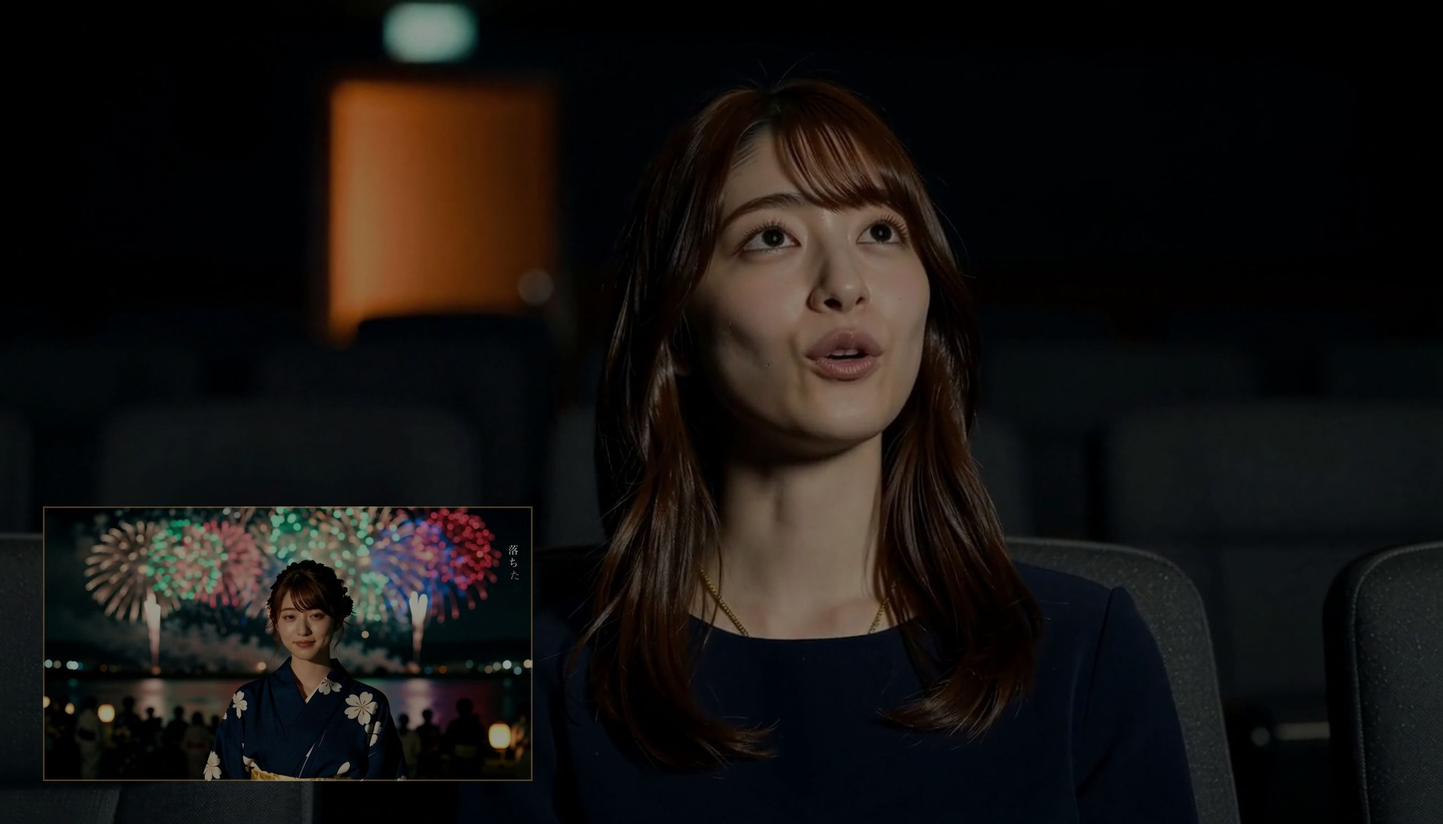
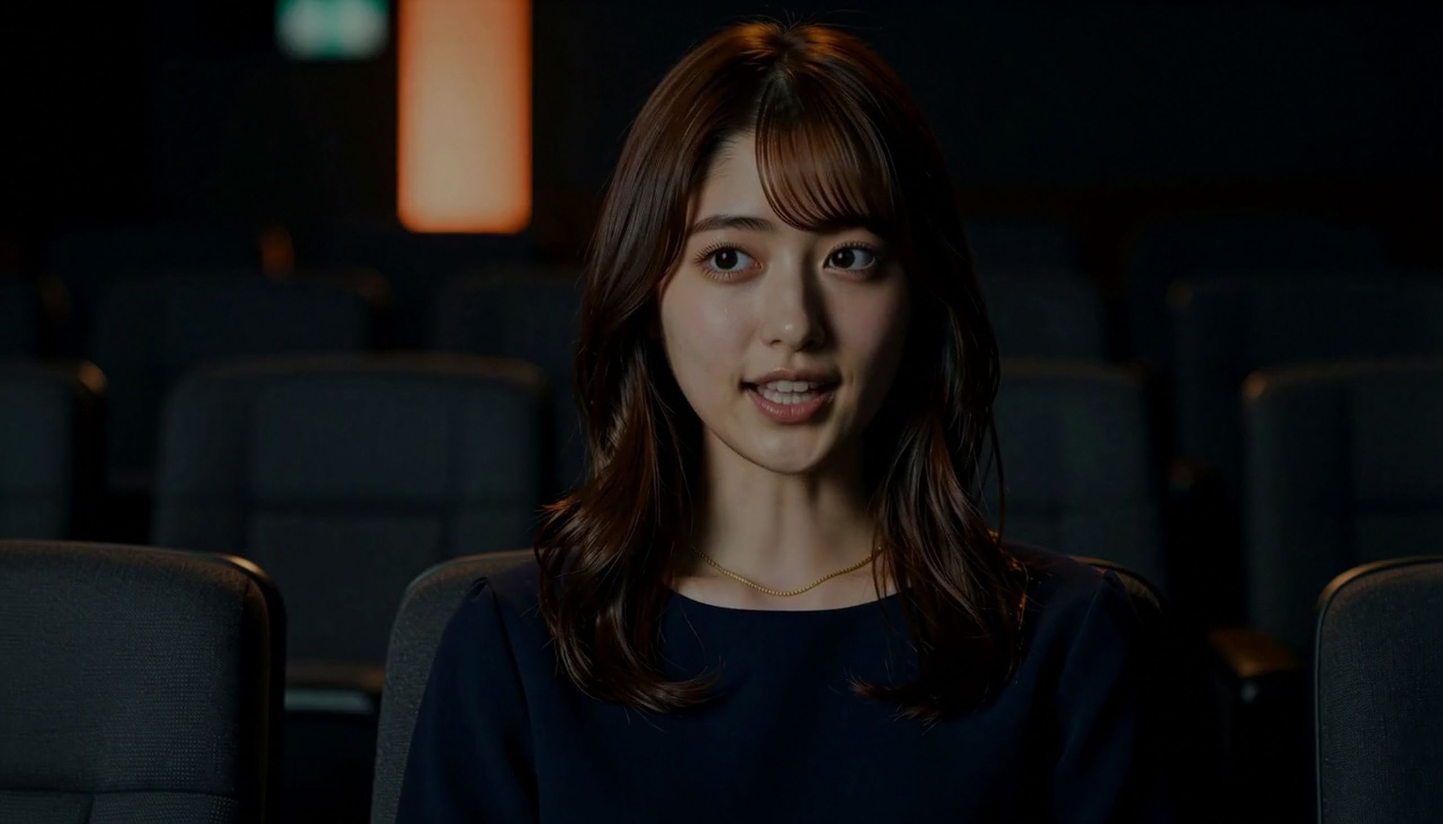
showcase: テンプレ36枚メガウォール / 衣装47点3列レール / プロ精度カード実画像化 / PRO表記削除
- 世界観のライブラリ = 3列×36枚(lib12+新規24, 全数目視済)
- スタイリング = 2026トレンド/ジャンル/レース和装/四季/ウケ/水着/コス 47点・4,000点超コピー
- 13の抽象図版→実画像(絵コンテstrip/線香花火ボケ/躍動カット)、PRO・PC版バッジと注記を削除
- スタジオのフレームを差し替え

diff --git a/js/main.js b/js/main.js
@@ -181,7 +181,7 @@ document.querySelectorAll('.reveal').forEach(el=>io.observe(el));
 (function i18n(){
   const M={
 "声で、映像をつくる":"用聲音，創造影像","話すだけで、":"只要開口說，","MVができる。":"MV就誕生。","頭の中にある一本の映像を、声で相談しながら——":"腦海中的那一支影像，用聲音邊聊邊打造——","雰囲気から完成まで、ともに描くAIディレクター。":"從氛圍到完成，陪你一同描繪的AI導演。","ネイティブ発音":"母語級發音","好きな声を選べる":"自選喜歡的聲音","声で、はじめる":"用聲音，開始","世界観を見る":"探索世界觀","01 — はじまりの問い":"01 — 起點的提問","頭の中で再生される、":"在腦海裡一再播放的，","あの":"那","一本":"一支","を。":"。","うまく言葉にできなくていい。「こんな雰囲気」と話しかけるだけ。":"說不清楚也沒關係。只要對它說「想要這種氛圍」就好。","まだ言葉にならない断片を、ディレクターが像に変えていく。":"那些還說不出口的片段，導演會將它們化為影像。","夜の色":"夜的色彩","ネオンの反射":"霓虹的反光","切なさ":"那份惆悵","あの曲":"那首曲子","視線":"視線","青い光":"藍色的光","02 — 声で、相談する":"02 — 用聲音，一起商量","作るのではなく、":"不是製作，","相談する":"而是商量","ボタンを探す制作ではなく、プロと言葉を交わす制作へ。あなたの“なんとなく”を、映像の言葉に翻訳する。":"不再是四處找按鈕的製作，而是與專業導演交談的製作。把你那份「說不太上來」的感覺，翻譯成影像的語言。","どんな雰囲気にする？ イメージを聞かせて。":"想要什麼樣的氛圍？說說你的想像吧。","もっと色っぽくて、夜っぽい感じに。":"再更撩人一點，帶點夜晚的感覺。","いいね。プロ目線で、この3案がおすすめ。":"不錯。以專業的眼光來看，推薦你這三個方案。","おすすめ":"推薦","雨に濡れた夜":"被雨淋濕的夜","月光":"月光","ネオンで。肌の質感もリアルに。":"用霓虹。肌膚的質感也要逼真。","了解。視線を外す表情で艶を出すね。今から顔を出す。":"了解。用移開視線的表情帶出韻味。現在就把臉孔生成出來。","03 — 渡すだけで、伝わる":"03 — 只要交給它，就懂","声だけじゃない。":"不只是聲音。","渡すだけ":"只要交給它","でいい。":"就好。","写真を添付、動画のURLを貼る——参考をそのまま渡せば、AIはその通りに受け取る。":"上傳照片、貼上影片連結——把參考原封不動交給它，AI就會照單全收。","顔の参考写真":"臉孔參考照片","「この顔に似た、20代前半の日本人女性に」":"「換成和這張臉相似、20出頭的日本女性」","衣装の参考写真":"服裝參考照片","「この衣装で」":"「用這套服裝」","動画のURL":"影片連結","「この振り付けを真似して踊らせて」":"「模仿這段編舞讓她跳」","04 — 制作の旅":"04 — 製作的旅程","雰囲気から完成まで、":"從氛圍到完成，","ひとつながり":"一氣呵成","で。":"。","雰囲気":"氛圍","顔":"臉孔","衣装":"服裝","スタイル":"體態","音楽":"音樂","ダンス":"舞蹈","絵コンテ":"分鏡","完成":"完成","05 — 本物の人間":"05 — 真實的人","「AIっぽさ」を、":"把「AI感」，","消す":"抹去","本物に見える理由は、細部への執着。光が割れた瞬間、すべてが“本物”に焦点を結ぶ。":"看起來像真人的理由，在於對細節的執著。光線碎裂的那一瞬，一切都聚焦於「真實」。","超リアルな肌":"極度逼真的肌膚","毛穴・うぶ毛、光の乗り方まで。":"連毛孔、寒毛，乃至光的落點都不放過。","視線の制御":"視線的掌控","寄りは目線、引きは外す。語る視線。":"近景望向鏡頭，遠景則移開。會說話的視線。","自然な微表情":"自然的微表情","感情を、生理反応の積み重ねで。":"以一層層的生理反應，堆疊出情感。","顔の一貫性":"臉孔的一致性","どのカットでも、同じ“その人”。":"無論哪個鏡頭，都是同一個「那個人」。","08 — 使うほど、あなた色に":"08 — 用得越多，越是你的色彩","渡すほど、あなた専属になる。":"交給它越多，它就越成為你的專屬。","好きな世界観や参考を渡すたび、あなたの“好み”を覚えていく。":"每當你交出喜愛的世界觀與參考，它就更記住你的「偏好」。","渡すほど、色が深まる——あなただけのディレクターへ。":"交得越多，色彩越濃——成為唯獨屬於你的導演。","世界観":"世界觀","参考のMV":"參考的MV","ムード":"情緒","色づかい":"用色","テンポ":"節奏","あなたの色":"你的色彩","09 — 言語と、声":"09 — 語言，與聲音","日本語でも、":"無論日語，","繁體中文（台灣）でも。":"還是繁體中文（台灣）。","どちらも":"兩者皆為","ネイティブの発音":"母語級發音","で。そして、相棒の声はあなたが選ぶ。世界と、あなたの耳に寄り添う。":"。而且，夥伴的聲音由你來選。貼近這個世界，也貼近你的耳朵。","日本語":"日語","こんにちは。あなたの一本、いっしょに作っていこう。":"你好。你的那一支作品，我們一起來完成吧。","好きな声を選ぶ":"選擇喜歡的聲音","声 A ・ クリア":"聲音 A ・ 清亮","声 B ・ やわらか":"聲音 B ・ 柔和","声 C ・ りりしい":"聲音 C ・ 英挺","声 D ・ おちつき":"聲音 D ・ 沉穩","ナレーション向き":"適合旁白","もう一つの目玉":"另一大亮點","実際の声を、コピーする。":"複製真實的聲音。","実際の声":"真實的聲音","その声で話す":"用那個聲音說話","好きな声を取り込めば、ディレクターは“その声”であなたと話す。世界に一つの相棒に。":"只要匯入喜歡的聲音，導演就會用「那個聲音」與你交談。成為世上唯一的夥伴。","日本語・繁體中文（台灣）ともにネイティブ発音　／　声はプルダウンで選択、または実際の声をコピー":"日語、繁體中文（台灣）皆為母語級發音　／　聲音可從下拉選單挑選，或複製真實的聲音","10 — あなただけのスタジオ":"10 — 唯獨屬於你的工作室","すべてが、あなたの手の中に。":"一切，都在你的掌心之中。","誰にも気兼ねなく、のびのびと。あなたのアイデアは、最後まであなただけのもの。":"無須顧慮任何人，盡情揮灑。你的點子，從頭到尾都只屬於你。","あなたのスタジオ":"你的工作室","制限のない、":"毫無限制的","自由":"自由","誰にも気兼ねなく、外に送られることもない。表現したいものを、ためらわず、そのまま。":"無須顧慮任何人，也不會被送往外部。想表達的，毫不遲疑，原原本本呈現。","完全プライベート":"完全私密","すべてあなたのもの":"一切都是你的","11 — 実例：話すだけで、ここまで":"11 — 實例：只要開口說，就能做到這般","一本のMVが、":"一支MV，","生まれる":"誕生","まで。":"的全程。","切ない夜のMV、青っぽい雰囲気で":"惆悵夜晚的MV，帶點藍色的氛圍","ネオン／雨／月光——雰囲気を3案から選ぶ。":"霓虹／雨／月光——從三個方案中挑選氛圍。","韓国アイドル風の、涼しげな子":"韓系偶像風、帶點清冷感的女孩","超リアルな顔を見比べて、相談して決める。":"比較幾張極度逼真的臉孔，邊商量邊決定。","黒のシースルー衣装で":"換上黑色透膚服裝","衣装・体型・スタイルまで反映する。":"連服裝、體態到整體風格都一併反映。","（曲を添付）":"（附上曲子）","この曲で踊らせて":"用這首曲子讓她跳","曲に合わせて、ビートでカット割り。":"配合曲子，依節拍分配鏡頭。","完成MV":"完成的MV","絵コンテOK、仕上げて":"分鏡OK，收尾吧","高画質で仕上げ——一本のMVが完成。":"以高畫質收尾——一支MV就此完成。","13 — プロの精度で、操る":"13 — 以專業級的精準度操控","細部まで、あなたの指先で。":"連細節都在你的指尖。","監督でありながら、撮影者でもあるあなたへ。仕上がりの細部まで、思いのまま。":"獻給既是導演、也是攝影者的你。連成品的細節，都隨心所欲。","絵コンテ単位で編集":"以分鏡為單位編輯","気になるカットだけ、何度でも作り直す。":"只針對在意的鏡頭，重做幾次都行。","PRO ・ PC版":"PRO ・ 電腦版","絞り　F1.4 → F8":"光圈　F1.4 → F8","レンズと絞りで、ボケまで":"用鏡頭與光圈，連散景都能掌控","焦点距離とF値で、被写界深度＝ボケの量まで操る。":"以焦距與光圈值（F值），連景深＝散景的多寡都能操控。","※ PRO機能・PC版のみ":"※ PRO功能・僅限電腦版","プロの振り付け":"專業編舞","プロのダンサーの振り付けで、本格的に踊らせる。":"以專業舞者的編舞，讓她正式起舞。","さあ、":"來吧，","話しかけてみよう。":"試著對它開口說。","頭の中のあの一本を、声に出すところから。":"從把腦海中那一支作品說出口開始。",
-"06 — 世界観のライブラリ":"06 — 世界觀圖書館","どんな世界も、":"任何世界，","すでにそこに":"早已在那裡","阿里山の雲海から、九份の提灯、雨のネオン、中華古装まで——":"從阿里山的雲海、九份的燈籠、雨中的霓虹，到中華古裝——","実際に生成された世界観が、何百も待っている。話す前から、旅は始まっている。":"實際生成的世界觀，數以百計地等著你。在開口之前，旅程早已開始。","07 — スタイリング":"07 — 造型設計","衣装も、髪も、メイクも。":"服裝、髮型、妝容。","専属スタイリスト":"專屬造型師","がいる。":"為你打理。","着物、大正ロマン、ドレス、デイリーまで——数千着のワードローブから、":"和服、大正浪漫、禮服到日常穿搭——從數千套的衣櫥中，","ファッションディレクターがその一本のための装いを提案する。":"時尚總監為你的那一支作品提案穿搭。","衣装・ヘア・メイク・アクセサリー — スタイリング資産より抜粋":"服裝・髮型・妝容・配飾 — 摘自造型資產","台湾・九份の夜":"台灣・九份之夜","雨のネオン街":"雨中霓虹街","阿里山・霧の森":"阿里山・霧之森林","元宵の灯籠流し":"元宵放水燈","旅立ちのCM":"啟程的廣告","氷上のアスリート":"冰上運動員","夕暮れの海辺":"黃昏的海邊","中華古装・月と灯":"中華古裝・月與燈","秋の並木道":"秋日林蔭道","朝の光の戸口":"晨光的門口","北港の街を見下ろして":"俯瞰北港街景","夜景の屋上":"夜景屋頂","ワンピース":"連身裙","着物":"和服","大正ロマン":"大正浪漫","トレンチコート":"風衣","デート":"約會","レース着物":"蕾絲和服","モードスーツ":"時尚西裝","フォーマル":"正式","カジュアル":"休閒","オフィス":"辦公室","スタイリング":"造型","12 — 作品":"12 — 作品集","すでに生まれた、":"已經誕生的，","一本たち":"那些作品","軽音部の放課後、真夏のきらめき、雨の剣戟、語りかける彼女——":"輕音部的放學後、盛夏的粼光、雨中的劍戟、對你說話的她——","どれも、このスタジオの対話から実際に生まれた作品。":"每一支，都是從這間工作室的對話中實際誕生的作品。","軽音部、最後の放課後":"輕音部、最後的放學後","バンドMV ・ 3分12秒":"樂團MV ・ 3分12秒","泡沫の夏":"泡沫之夏","サマーMV ・ 3分07秒":"夏日MV ・ 3分07秒","暁の誓剣":"拂曉的誓劍","アクション短編 ・ 42秒":"動作短片 ・ 42秒","RINKA 紹介ボイス":"RINKA 介紹語音","トーキング動画 ・ 日本語／繁體中文":"對話影片 ・ 日語／繁體中文","作品":"作品","問い":"提問","相談":"商量","渡すだけ":"交給它","制作の旅":"製作旅程","本物の人間":"真實的人","あなた色":"你的色彩","言語と声":"語言與聲音","スタジオ":"工作室","実例":"實例","プロの制御":"專業掌控","はじめる":"開始","はじめに":"開場","対応環境":"支援環境",
+"06 — 世界観のライブラリ":"06 — 世界觀圖書館","どんな世界も、":"任何世界，","すでにそこに":"早已在那裡","阿里山の雲海から、九份の提灯、雨のネオン、中華古装まで——":"從阿里山的雲海、九份的燈籠、雨中的霓虹，到中華古裝——","実際に生成された世界観が、何百も待っている。話す前から、旅は始まっている。":"實際生成的世界觀，數以百計地等著你。在開口之前，旅程早已開始。","07 — スタイリング":"07 — 造型設計","衣装も、髪も、メイクも。":"服裝、髮型、妝容。","専属スタイリスト":"專屬造型師","がいる。":"為你打理。","着物、大正ロマン、ドレス、デイリーまで——数千着のワードローブから、":"和服、大正浪漫、禮服到日常穿搭——從數千套的衣櫥中，","ファッションディレクターがその一本のための装いを提案する。":"時尚總監為你的那一支作品提案穿搭。","衣装・ヘア・メイク・アクセサリー — スタイリング資産より抜粋":"服裝・髮型・妝容・配飾 — 摘自造型資產","台湾・九份の夜":"台灣・九份之夜","雨のネオン街":"雨中霓虹街","阿里山・霧の森":"阿里山・霧之森林","元宵の灯籠流し":"元宵放水燈","旅立ちのCM":"啟程的廣告","氷上のアスリート":"冰上運動員","夕暮れの海辺":"黃昏的海邊","中華古装・月と灯":"中華古裝・月與燈","秋の並木道":"秋日林蔭道","朝の光の戸口":"晨光的門口","北港の街を見下ろして":"俯瞰北港街景","夜景の屋上":"夜景屋頂","ワンピース":"連身裙","着物":"和服","大正ロマン":"大正浪漫","トレンチコート":"風衣","デート":"約會","レース着物":"蕾絲和服","モードスーツ":"時尚西裝","フォーマル":"正式","カジュアル":"休閒","オフィス":"辦公室","スタイリング":"造型","12 — 作品":"12 — 作品集","すでに生まれた、":"已經誕生的，","一本たち":"那些作品","軽音部の放課後、真夏のきらめき、雨の剣戟、語りかける彼女——":"輕音部的放學後、盛夏的粼光、雨中的劍戟、對你說話的她——","どれも、このスタジオの対話から実際に生まれた作品。":"每一支，都是從這間工作室的對話中實際誕生的作品。","軽音部、最後の放課後":"輕音部、最後的放學後","バンドMV ・ 3分12秒":"樂團MV ・ 3分12秒","泡沫の夏":"泡沫之夏","サマーMV ・ 3分07秒":"夏日MV ・ 3分07秒","暁の誓剣":"拂曉的誓劍","アクション短編 ・ 42秒":"動作短片 ・ 42秒","RINKA 紹介ボイス":"RINKA 介紹語音","トーキング動画 ・ 日本語／繁體中文":"對話影片 ・ 日語／繁體中文","作品":"作品","2026トレンド、四季、女子ウケも男子ウケも、レース和装から水着まで——":"2026趨勢、四季、女生緣與男生緣，從蕾絲和裝到泳裝——","4,000点を超えるワードローブから、その一本のための装いを整える。":"從超過4,000件的衣櫥，為那一支作品整裝。","スタイリング資産 4,000点超 — 衣装・ヘア・メイク・アクセサリーより抜粋":"造型資產超過4,000件 — 摘自服裝・髮型・妝容・配飾","問い":"提問","相談":"商量","渡すだけ":"交給它","制作の旅":"製作旅程","本物の人間":"真實的人","あなた色":"你的色彩","言語と声":"語言與聲音","スタジオ":"工作室","実例":"實例","プロの制御":"專業掌控","はじめる":"開始","はじめに":"開場","対応環境":"支援環境",
 "14 — 対応環境":"14 — 支援環境","どこでも、あなたの手元で。":"隨時隨地，就在你手中。","PC（Mac / Windows）にインストールして使う。iPhone・iPad・Android からも、そのまま。":"安裝在電腦（Mac / Windows）上使用。iPhone、iPad、Android 也能直接操作。","画質はPCの性能に応じて（720P 〜 4K）。ご利用にはPCへのインストールが必要です。":"畫質依電腦效能而定（720P 〜 4K）。使用前須先安裝於電腦。",
 "ご利用にあたって — 自由には、責任が伴います。各国・地域の法令を遵守し、倫理・道徳・公序良俗に反する利用、第三者の権利（肖像権・著作権・名誉・プライバシー等）を侵害する利用は固くお断りします。本サービスの利用により生じたいかなる結果・損害についても、製作者および提供者は一切の責任を負いません。すべての責任は利用者ご自身に帰属します。":"使用須知 — 自由，伴隨著責任。請遵守各國／地區的法律，嚴禁用於違反倫理、道德與公序良俗，或侵害他人權利（肖像權、著作權、名譽、隱私等）的用途。對於因使用本服務所產生的任何結果或損害，製作者與提供者概不負責。一切責任皆由使用者本人承擔。",
 "制作者に連絡する":"與製作者聯絡","ご興味を持った方は、お気軽にご連絡ください。":"若您感興趣，歡迎隨時與我聯繫。",

diff --git a/index.html b/index.html
@@ -29,7 +29,7 @@
 <link rel="preconnect" href="https://fonts.googleapis.com">
 <link rel="preconnect" href="https://fonts.gstatic.com" crossorigin>
 <link href="https://fonts.googleapis.com/css2?family=Zen+Kaku+Gothic+New:wght@300;400;500;700&family=Noto+Sans+TC:wght@300;400;500;700&family=Noto+Serif+TC:wght@500;600&family=Shippori+Mincho:wght@400;500;600&family=Inter:wght@300;400;500&display=swap" rel="stylesheet">
-<link rel="stylesheet" href="css/theater.css?v=20260814d">
+<link rel="stylesheet" href="css/theater.css?v=20260814f">
 </head>
 <body>
   <div class="grain"></div>
@@ -205,26 +205,48 @@
       <p class="ch-sub reveal d2">阿里山の雲海から、九份の提灯、雨のネオン、中華古装まで——<br>実際に生成された世界観が、何百も待っている。話す前から、旅は始まっている。</p>
     </div>
     <div class="wallwrap reveal d2">
-      <div class="wallrow wr1">
-        <div class="wallseq">
-          <figure class="wcard"><img src="assets/lib_jiufen.jpg?v=20260813a" alt="" loading="lazy"><figcaption>台湾・九份の夜</figcaption></figure>
-          <figure class="wcard"><img src="assets/lib_city_night.jpg?v=20260813a" alt="" loading="lazy"><figcaption>雨のネオン街</figcaption></figure>
-          <figure class="wcard"><img src="assets/lib_alishan_forest.jpg?v=20260813a" alt="" loading="lazy"><figcaption>阿里山・霧の森</figcaption></figure>
-          <figure class="wcard"><img src="assets/lib_lotus.jpg?v=20260813a" alt="" loading="lazy"><figcaption>元宵の灯籠流し</figcaption></figure>
-          <figure class="wcard"><img src="assets/lib_airline.jpg?v=20260813a" alt="" loading="lazy"><figcaption>旅立ちのCM</figcaption></figure>
-          <figure class="wcard"><img src="assets/lib_skate.jpg?v=20260813a" alt="" loading="lazy"><figcaption>氷上のアスリート</figcaption></figure>
-        </div>
-      </div>
-      <div class="wallrow wr2">
-        <div class="wallseq">
-          <figure class="wcard"><img src="assets/lib_amis_ocean.jpg?v=20260813a" alt="" loading="lazy"><figcaption>夕暮れの海辺</figcaption></figure>
-          <figure class="wcard"><img src="assets/lib_moon_window.jpg?v=20260813a" alt="" loading="lazy"><figcaption>中華古装・月と灯</figcaption></figure>
-          <figure class="wcard"><img src="assets/lib_alishan_avenue.jpg?v=20260813a" alt="" loading="lazy"><figcaption>秋の並木道</figcaption></figure>
-          <figure class="wcard"><img src="assets/lib_hall_light.jpg?v=20260813a" alt="" loading="lazy"><figcaption>朝の光の戸口</figcaption></figure>
-          <figure class="wcard"><img src="assets/lib_beigang.jpg?v=20260813a" alt="" loading="lazy"><figcaption>北港の街を見下ろして</figcaption></figure>
-          <figure class="wcard"><img src="assets/lib_city_roof.jpg?v=20260813a" alt="" loading="lazy"><figcaption>夜景の屋上</figcaption></figure>
-        </div>
-      </div>
+      <div class="wallrow wr1"><div class="wallseq">
+          <figure class="wcard"><img src="assets/lib_jiufen.jpg?v=20260814f" alt="" loading="lazy"></figure>
+          <figure class="wcard"><img src="assets/lib_city_night.jpg?v=20260814f" alt="" loading="lazy"></figure>
+          <figure class="wcard"><img src="assets/lib_lotus.jpg?v=20260814f" alt="" loading="lazy"></figure>
+          <figure class="wcard"><img src="assets/lib_moon_window.jpg?v=20260814f" alt="" loading="lazy"></figure>
+          <figure class="wcard"><img src="assets/tw_02.jpg?v=20260814f" alt="" loading="lazy"></figure>
+          <figure class="wcard"><img src="assets/tw_05.jpg?v=20260814f" alt="" loading="lazy"></figure>
+          <figure class="wcard"><img src="assets/tw_00.jpg?v=20260814f" alt="" loading="lazy"></figure>
+          <figure class="wcard"><img src="assets/tw_01.jpg?v=20260814f" alt="" loading="lazy"></figure>
+          <figure class="wcard"><img src="assets/lib_hall_light.jpg?v=20260814f" alt="" loading="lazy"></figure>
+          <figure class="wcard"><img src="assets/tw_22.jpg?v=20260814f" alt="" loading="lazy"></figure>
+          <figure class="wcard"><img src="assets/lib_city_roof.jpg?v=20260814f" alt="" loading="lazy"></figure>
+          <figure class="wcard"><img src="assets/tw_06.jpg?v=20260814f" alt="" loading="lazy"></figure>
+      </div></div>
+      <div class="wallrow wr2"><div class="wallseq">
+          <figure class="wcard"><img src="assets/lib_alishan_forest.jpg?v=20260814f" alt="" loading="lazy"></figure>
+          <figure class="wcard"><img src="assets/lib_alishan_avenue.jpg?v=20260814f" alt="" loading="lazy"></figure>
+          <figure class="wcard"><img src="assets/lib_amis_ocean.jpg?v=20260814f" alt="" loading="lazy"></figure>
+          <figure class="wcard"><img src="assets/lib_beigang.jpg?v=20260814f" alt="" loading="lazy"></figure>
+          <figure class="wcard"><img src="assets/tw_14.jpg?v=20260814f" alt="" loading="lazy"></figure>
+          <figure class="wcard"><img src="assets/tw_15.jpg?v=20260814f" alt="" loading="lazy"></figure>
+          <figure class="wcard"><img src="assets/tw_16.jpg?v=20260814f" alt="" loading="lazy"></figure>
+          <figure class="wcard"><img src="assets/tw_17.jpg?v=20260814f" alt="" loading="lazy"></figure>
+          <figure class="wcard"><img src="assets/tw_18.jpg?v=20260814f" alt="" loading="lazy"></figure>
+          <figure class="wcard"><img src="assets/tw_23.jpg?v=20260814f" alt="" loading="lazy"></figure>
+          <figure class="wcard"><img src="assets/tw_19.jpg?v=20260814f" alt="" loading="lazy"></figure>
+          <figure class="wcard"><img src="assets/tw_03.jpg?v=20260814f" alt="" loading="lazy"></figure>
+      </div></div>
+      <div class="wallrow wr3"><div class="wallseq">
+          <figure class="wcard"><img src="assets/tw_04.jpg?v=20260814f" alt="" loading="lazy"></figure>
+          <figure class="wcard"><img src="assets/tw_07.jpg?v=20260814f" alt="" loading="lazy"></figure>
+          <figure class="wcard"><img src="assets/tw_08.jpg?v=20260814f" alt="" loading="lazy"></figure>
+          <figure class="wcard"><img src="assets/tw_09.jpg?v=20260814f" alt="" loading="lazy"></figure>
+          <figure class="wcard"><img src="assets/tw_10.jpg?v=20260814f" alt="" loading="lazy"></figure>
+          <figure class="wcard"><img src="assets/tw_11.jpg?v=20260814f" alt="" loading="lazy"></figure>
+          <figure class="wcard"><img src="assets/tw_12.jpg?v=20260814f" alt="" loading="lazy"></figure>
+          <figure class="wcard"><img src="assets/tw_13.jpg?v=20260814f" alt="" loading="lazy"></figure>
+          <figure class="wcard"><img src="assets/lib_airline.jpg?v=20260814f" alt="" loading="lazy"></figure>
+          <figure class="wcard"><img src="assets/lib_skate.jpg?v=20260814f" alt="" loading="lazy"></figure>
+          <figure class="wcard"><img src="assets/tw_20.jpg?v=20260814f" alt="" loading="lazy"></figure>
+          <figure class="wcard"><img src="assets/tw_21.jpg?v=20260814f" alt="" loading="lazy"></figure>
+      </div></div>
     </div>
   </section>
 
@@ -233,24 +255,63 @@
     <div class="panel-inner">
       <div class="ch-eyebrow reveal">07 — スタイリング</div>
       <h2 class="ch-title reveal d1">衣装も、髪も、メイクも。<br><span class="em">専属スタイリスト</span>がいる。</h2>
-      <p class="ch-sub reveal d2">着物、大正ロマン、ドレス、デイリーまで——数千着のワードローブから、<br>ファッションディレクターがその一本のための装いを提案する。</p>
+      <p class="ch-sub reveal d2">2026トレンド、四季、女子ウケも男子ウケも、レース和装から水着まで——<br>4,000点を超えるワードローブから、その一本のための装いを整える。</p>
     </div>
     <div class="rackwrap reveal d2">
-      <div class="rackrow">
-        <div class="rackseq">
-          <figure class="rcard"><img src="assets/fs_luxe_white.jpg?v=20260813a" alt="" loading="lazy"><figcaption>ワンピース</figcaption></figure>
-          <figure class="rcard"><img src="assets/fs_kimono.jpg?v=20260813a" alt="" loading="lazy"><figcaption>着物</figcaption></figure>
-          <figure class="rcard"><img src="assets/fs_taisho_coat.jpg?v=20260813a" alt="" loading="lazy"><figcaption>大正ロマン</figcaption></figure>
-          <figure class="rcard"><img src="assets/fs_euro_gown.jpg?v=20260813a" alt="" loading="lazy"><figcaption>トレンチコート</figcaption></figure>
-          <figure class="rcard"><img src="assets/fs_date_black.jpg?v=20260813a" alt="" loading="lazy"><figcaption>デート</figcaption></figure>
-          <figure class="rcard"><img src="assets/fs_taisho_black.jpg?v=20260813a" alt="" loading="lazy"><figcaption>レース着物</figcaption></figure>
-          <figure class="rcard"><img src="assets/fs_euro_beret.jpg?v=20260813a" alt="" loading="lazy"><figcaption>モードスーツ</figcaption></figure>
-          <figure class="rcard"><img src="assets/fs_luxe_navy.jpg?v=20260813a" alt="" loading="lazy"><figcaption>フォーマル</figcaption></figure>
-          <figure class="rcard"><img src="assets/fs_zara_linen.jpg?v=20260813a" alt="" loading="lazy"><figcaption>カジュアル</figcaption></figure>
-          <figure class="rcard"><img src="assets/fs_zara_shirt.jpg?v=20260813a" alt="" loading="lazy"><figcaption>オフィス</figcaption></figure>
-        </div>
-      </div>
-      <div class="rack-note">衣装・ヘア・メイク・アクセサリー — スタイリング資産より抜粋</div>
+      <div class="rackrow rr1"><div class="rackseq">
+          <figure class="rcard"><img src="assets/wd_00.jpg?v=20260814f" alt="" loading="lazy"></figure>
+          <figure class="rcard"><img src="assets/wd_01.jpg?v=20260814f" alt="" loading="lazy"></figure>
+          <figure class="rcard"><img src="assets/wd_02.jpg?v=20260814f" alt="" loading="lazy"></figure>
+          <figure class="rcard"><img src="assets/wd_03.jpg?v=20260814f" alt="" loading="lazy"></figure>
+          <figure class="rcard"><img src="assets/wd_04.jpg?v=20260814f" alt="" loading="lazy"></figure>
+          <figure class="rcard"><img src="assets/wd_05.jpg?v=20260814f" alt="" loading="lazy"></figure>
+          <figure class="rcard"><img src="assets/wd_06.jpg?v=20260814f" alt="" loading="lazy"></figure>
+          <figure class="rcard"><img src="assets/wd_07.jpg?v=20260814f" alt="" loading="lazy"></figure>
+          <figure class="rcard"><img src="assets/wd_08.jpg?v=20260814f" alt="" loading="lazy"></figure>
+          <figure class="rcard"><img src="assets/wd_09.jpg?v=20260814f" alt="" loading="lazy"></figure>
+          <figure class="rcard"><img src="assets/wd_10.jpg?v=20260814f" alt="" loading="lazy"></figure>
+          <figure class="rcard"><img src="assets/wd_11.jpg?v=20260814f" alt="" loading="lazy"></figure>
+          <figure class="rcard"><img src="assets/wd_12.jpg?v=20260814f" alt="" loading="lazy"></figure>
+          <figure class="rcard"><img src="assets/wd_13.jpg?v=20260814f" alt="" loading="lazy"></figure>
+          <figure class="rcard"><img src="assets/wd_14.jpg?v=20260814f" alt="" loading="lazy"></figure>
+          <figure class="rcard"><img src="assets/wd_15.jpg?v=20260814f" alt="" loading="lazy"></figure>
+      </div></div>
+      <div class="rackrow rr2"><div class="rackseq">
+          <figure class="rcard"><img src="assets/wd_16.jpg?v=20260814f" alt="" loading="lazy"></figure>
+          <figure class="rcard"><img src="assets/wd_17.jpg?v=20260814f" alt="" loading="lazy"></figure>
+          <figure class="rcard"><img src="assets/wd_18.jpg?v=20260814f" alt="" loading="lazy"></figure>
+          <figure class="rcard"><img src="assets/wd_19.jpg?v=20260814f" alt="" loading="lazy"></figure>
+          <figure class="rcard"><img src="assets/wd_20.jpg?v=20260814f" alt="" loading="lazy"></figure>
+          <figure class="rcard"><img src="assets/wd_21.jpg?v=20260814f" alt="" loading="lazy"></figure>
+          <figure class="rcard"><img src="assets/wd_22.jpg?v=20260814f" alt="" loading="lazy"></figure>
+          <figure class="rcard"><img src="assets/wd_23.jpg?v=20260814f" alt="" loading="lazy"></figure>
+          <figure class="rcard"><img src="assets/wd_24.jpg?v=20260814f" alt="" loading="lazy"></figure>
+          <figure class="rcard"><img src="assets/wd_25.jpg?v=20260814f" alt="" loading="lazy"></figure>
+          <figure class="rcard"><img src="assets/wd_26.jpg?v=20260814f" alt="" loading="lazy"></figure>
+          <figure class="rcard"><img src="assets/wd_27.jpg?v=20260814f" alt="" loading="lazy"></figure>
+          <figure class="rcard"><img src="assets/wd_28.jpg?v=20260814f" alt="" loading="lazy"></figure>
+          <figure class="rcard"><img src="assets/wd_29.jpg?v=20260814f" alt="" loading="lazy"></figure>
+          <figure class="rcard"><img src="assets/wd_30.jpg?v=20260814f" alt="" loading="lazy"></figure>
+          <figure class="rcard"><img src="assets/wd_31.jpg?v=20260814f" alt="" loading="lazy"></figure>
+      </div></div>
+      <div class="rackrow rr3"><div class="rackseq">
+          <figure class="rcard"><img src="assets/wd_32.jpg?v=20260814f" alt="" loading="lazy"></figure>
+          <figure class="rcard"><img src="assets/wd_33.jpg?v=20260814f" alt="" loading="lazy"></figure>
+          <figure class="rcard"><img src="assets/wd_34.jpg?v=20260814f" alt="" loading="lazy"></figure>
+          <figure class="rcard"><img src="assets/wd_35.jpg?v=20260814f" alt="" loading="lazy"></figure>
+          <figure class="rcard"><img src="assets/wd_36.jpg?v=20260814f" alt="" loading="lazy"></figure>
+          <figure class="rcard"><img src="assets/wd_37.jpg?v=20260814f" alt="" loading="lazy"></figure>
+          <figure class="rcard"><img src="assets/wd_38.jpg?v=20260814f" alt="" loading="lazy"></figure>
+          <figure class="rcard"><img src="assets/wd_39.jpg?v=20260814f" alt="" loading="lazy"></figure>
+          <figure class="rcard"><img src="assets/wd_40.jpg?v=20260814f" alt="" loading="lazy"></figure>
+          <figure class="rcard"><img src="assets/wd_41.jpg?v=20260814f" alt="" loading="lazy"></figure>
+          <figure class="rcard"><img src="assets/wd_42.jpg?v=20260814f" alt="" loading="lazy"></figure>
+          <figure class="rcard"><img src="assets/wd_43.jpg?v=20260814f" alt="" loading="lazy"></figure>
+          <figure class="rcard"><img src="assets/wd_44.jpg?v=20260814f" alt="" loading="lazy"></figure>
+          <figure class="rcard"><img src="assets/wd_45.jpg?v=20260814f" alt="" loading="lazy"></figure>
+          <figure class="rcard"><img src="assets/wd_46.jpg?v=20260814f" alt="" loading="lazy"></figure>
+      </div></div>
+      <div class="rack-note">スタイリング資産 4,000点超 — 衣装・ヘア・メイク・アクセサリーより抜粋</div>
     </div>
   </section>
 
@@ -423,22 +484,15 @@
       </div>
       <div class="cards3">
         <div class="info-card reveal d1">
-          <div class="pc-vis pc-strip"><span class="pc-cell"></span><span class="pc-cell edit">✎</span><span class="pc-cell"></span><span class="pc-cell"></span></div>
+          <div class="pc-vis pc-sbstrip"><img src="assets/sb_full.jpg?v=20260812a" alt=""><img class="edit" src="assets/reel_7.jpg?v=20260812a" alt=""><img src="assets/sb_bust.jpg?v=20260812a" alt=""><img src="assets/sb_knee.jpg?v=20260812a" alt=""><span class="pen">✎</span></div>
           <div class="it">絵コンテ単位で編集</div><div class="id">気になるカットだけ、何度でも作り直す。</div>
         </div>
-        <div class="info-card pro reveal d2">
-          <span class="pro-badge">PRO ・ PC版</span>
-          <div class="pc-vis pc-bokeh">
-            <span class="bk b1"></span><span class="bk b2"></span><span class="bk b3"></span><span class="bk b4"></span>
-            <span class="bk-subject"></span><span class="fstop">絞り　F1.4 → F8</span>
-          </div>
-          <div class="it">レンズと絞りで、ボケまで</div><div class="id">焦点距離とF値で、被写界深度＝ボケの量まで操る。<span class="pc-note">※ PRO機能・PC版のみ</span></div>
+        <div class="info-card reveal d2">
+          <div class="pc-vis pc-photo"><img src="assets/pc_bokeh.jpg?v=20260814f" alt=""><span class="fstop">絞り　F1.4 → F8</span></div>
+          <div class="it">レンズと絞りで、ボケまで</div><div class="id">焦点距離とF値で、被写界深度＝ボケの量まで操る。</div>
         </div>
         <div class="info-card reveal d3">
-          <div class="pc-vis pc-dance">
-            <svg class="dancer" viewBox="0 0 40 64" fill="none" stroke="#3a6a90" stroke-width="2.4" stroke-linecap="round" stroke-linejoin="round"><circle cx="22" cy="8" r="5" fill="#3a6a90" stroke="none"/><path d="M22 13L18 33"/><path d="M18.5 18L30 12"/><path d="M18.5 20L8 26"/><path d="M18 33L25 47L22 60"/><path d="M18 33L10 45L13 59"/></svg>
-            <span class="beat" style="left:32%;animation-delay:0s"></span><span class="beat" style="left:42%;animation-delay:.15s"></span><span class="beat" style="left:58%;animation-delay:.3s"></span><span class="beat" style="left:68%;animation-delay:.45s"></span>
-          </div>
+          <div class="pc-vis pc-photo"><img src="assets/reel_5.jpg?v=20260812a" alt=""></div>
           <div class="it">プロの振り付け</div><div class="id">プロのダンサーの振り付けで、本格的に踊らせる。</div>
         </div>
       </div>
@@ -559,6 +613,6 @@
   </footer>
 
 
-<script src="js/main.js?v=20260814a"></script>
+<script src="js/main.js?v=20260814f"></script>
 </body>
 </html>

diff --git a/css/theater.css b/css/theater.css
@@ -376,7 +376,8 @@ h1 .l:nth-child(2) span{animation-delay:.62s}
 .wallrow{display:flex;width:max-content}
 .wallseq{display:flex;gap:18px;padding-right:18px;animation:drift 64s linear infinite}
 .wr2 .wallseq{animation-direction:reverse;animation-duration:76s}
-.wcard{position:relative;flex:none;width:clamp(240px,26vw,420px);aspect-ratio:16/9;
+.wr3 .wallseq{animation-duration:88s}
+.wcard{position:relative;flex:none;width:clamp(200px,21vw,340px);aspect-ratio:16/9;
   border-radius:14px;overflow:hidden;border:1px solid rgba(242,236,220,.1);
   box-shadow:0 18px 50px -18px rgba(0,0,0,.6);margin:0}
 .wcard img{width:100%;height:100%;object-fit:cover;display:block}
@@ -386,9 +387,11 @@ h1 .l:nth-child(2) span{animation-delay:.62s}
 .rackwrap{margin-top:50px;overflow:hidden;
   -webkit-mask-image:linear-gradient(90deg,transparent,#000 6%,#000 94%,transparent);
   mask-image:linear-gradient(90deg,transparent,#000 6%,#000 94%,transparent)}
-.rackrow{display:flex;width:max-content}
+.rackrow{display:flex;width:max-content;margin-bottom:14px}
+.rr2 .rackseq{animation-direction:reverse;animation-duration:70s}
+.rr3 .rackseq{animation-duration:80s}
 .rackseq{display:flex;gap:16px;padding-right:16px;animation:drift 58s linear infinite}
-.rcard{flex:none;width:clamp(128px,14vw,196px);border-radius:12px;overflow:hidden;
+.rcard{flex:none;width:clamp(108px,11.5vw,168px);border-radius:12px;overflow:hidden;
   background:#f3f2f0;border:1px solid rgba(242,236,220,.14);margin:0;
   box-shadow:0 14px 40px -16px rgba(0,0,0,.55)}
 .rcard img{width:100%;aspect-ratio:482/780;object-fit:cover;object-position:center top;display:block}
@@ -481,7 +484,7 @@ h1 .l:nth-child(2) span{animation-delay:.62s}
 .studio{margin-top:52px;display:flex;flex-direction:column;gap:26px}
 .st-frame{position:relative;height:clamp(220px,30vw,300px);border-radius:20px;overflow:hidden;
   border:1px solid rgba(230,180,118,.25);
-  background:url("../assets/bd_theater.jpg?v=20260814b") center 35%/cover;
+  background:url("../assets/bd_theater.jpg?v=20260814f") center 35%/cover;
   box-shadow:0 24px 70px -24px rgba(0,0,0,.7)}
 .st-frame::before{content:"";position:absolute;inset:0;
   background:linear-gradient(180deg,rgba(4,5,12,.2),rgba(4,5,12,.68))}
@@ -609,6 +612,19 @@ h1 .l:nth-child(2) span{animation-delay:.62s}
 .foot-cred:hover{color:var(--ink)}
 .foot-cred svg{width:15px;height:15px;stroke:var(--gold)}
 .foot-copy{font-family:var(--en);font-size:11px;letter-spacing:.08em;color:rgba(235,229,214,.4)}
+
+
+  /* 13 実画像ミニビジュアル */
+  .pc-photo{padding:0;overflow:hidden}
+  .pc-photo img{width:100%;height:100%;object-fit:cover}
+  .pc-photo .fstop{position:absolute;right:10px;bottom:8px;font-family:var(--en);
+    font-size:10px;letter-spacing:.1em;color:#fff;text-shadow:0 1px 6px rgba(0,0,0,.8)}
+  .pc-sbstrip{padding:8px;gap:6px}
+  .pc-sbstrip img{height:100%;flex:1;min-width:0;object-fit:cover;border-radius:6px;opacity:.55}
+  .pc-sbstrip img.edit{opacity:1;outline:1.5px solid var(--gold);box-shadow:0 0 16px -2px rgba(230,180,118,.6)}
+  .pc-sbstrip .pen{position:absolute;color:var(--gold);font-size:15px;
+    left:calc(8px + (100% - 16px)*0.375);top:50%;transform:translate(-50%,-50%);
+    text-shadow:0 1px 8px rgba(0,0,0,.8)}
 
 /* ---- keyframes ---- */
 @keyframes rise{to{opacity:1;transform:none}}
